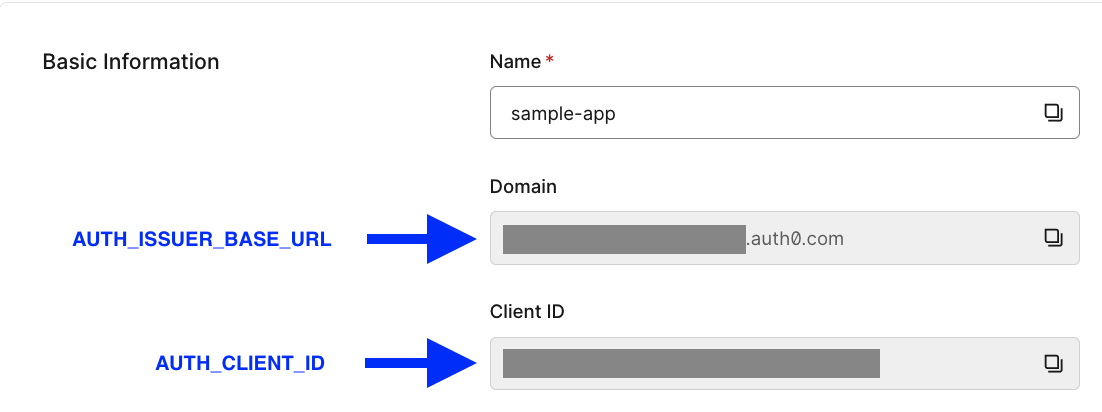
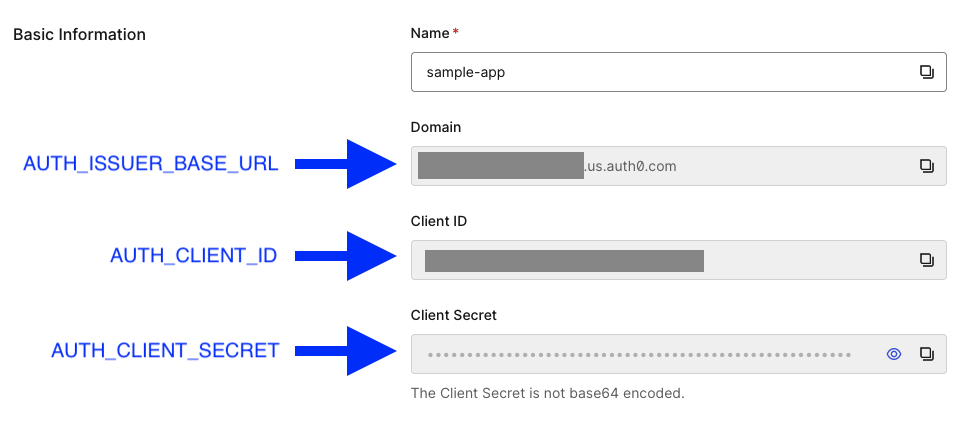
update auth0 instructions

diff --git a/doc/user-guide/password.md b/doc/user-guide/password.md
@@ -68,7 +68,8 @@ To configure resources for this project, run 'ploomber-cloud resources' or to de
 If your project has already been initialized, you won't see this. You'll then be prompted to enter three credentials from Auth0:
 
 1. `AUTH_CLIENT_ID`
-2. `AUTH_ISSUER_BASE_URL`
+2. `AUTH_CLIENT_SECRET`
+3. `AUTH_ISSUER_BASE_URL`
 
 These can be obtained from your Auth0 application page. If you haven't yet created an application, log into Auth0 and create one. Then find the credentials here:
 
@@ -121,6 +122,8 @@ To know which user logged in, you can read the following headers:
 
 - `X-Auth-Name`: returns the user's email
 - `X-Auth-Sub`: returns the user ID (as identified by Auth0)
+- `X-Access-Token`: Auth0's access token
+- `X-Id-Token`: Auth0's ID token
 
 You can see some sample [Streamlit code here.](https://github.com/ploomber/doc/blob/main/examples/streamlit/app-with-auth0/app.py)
 
